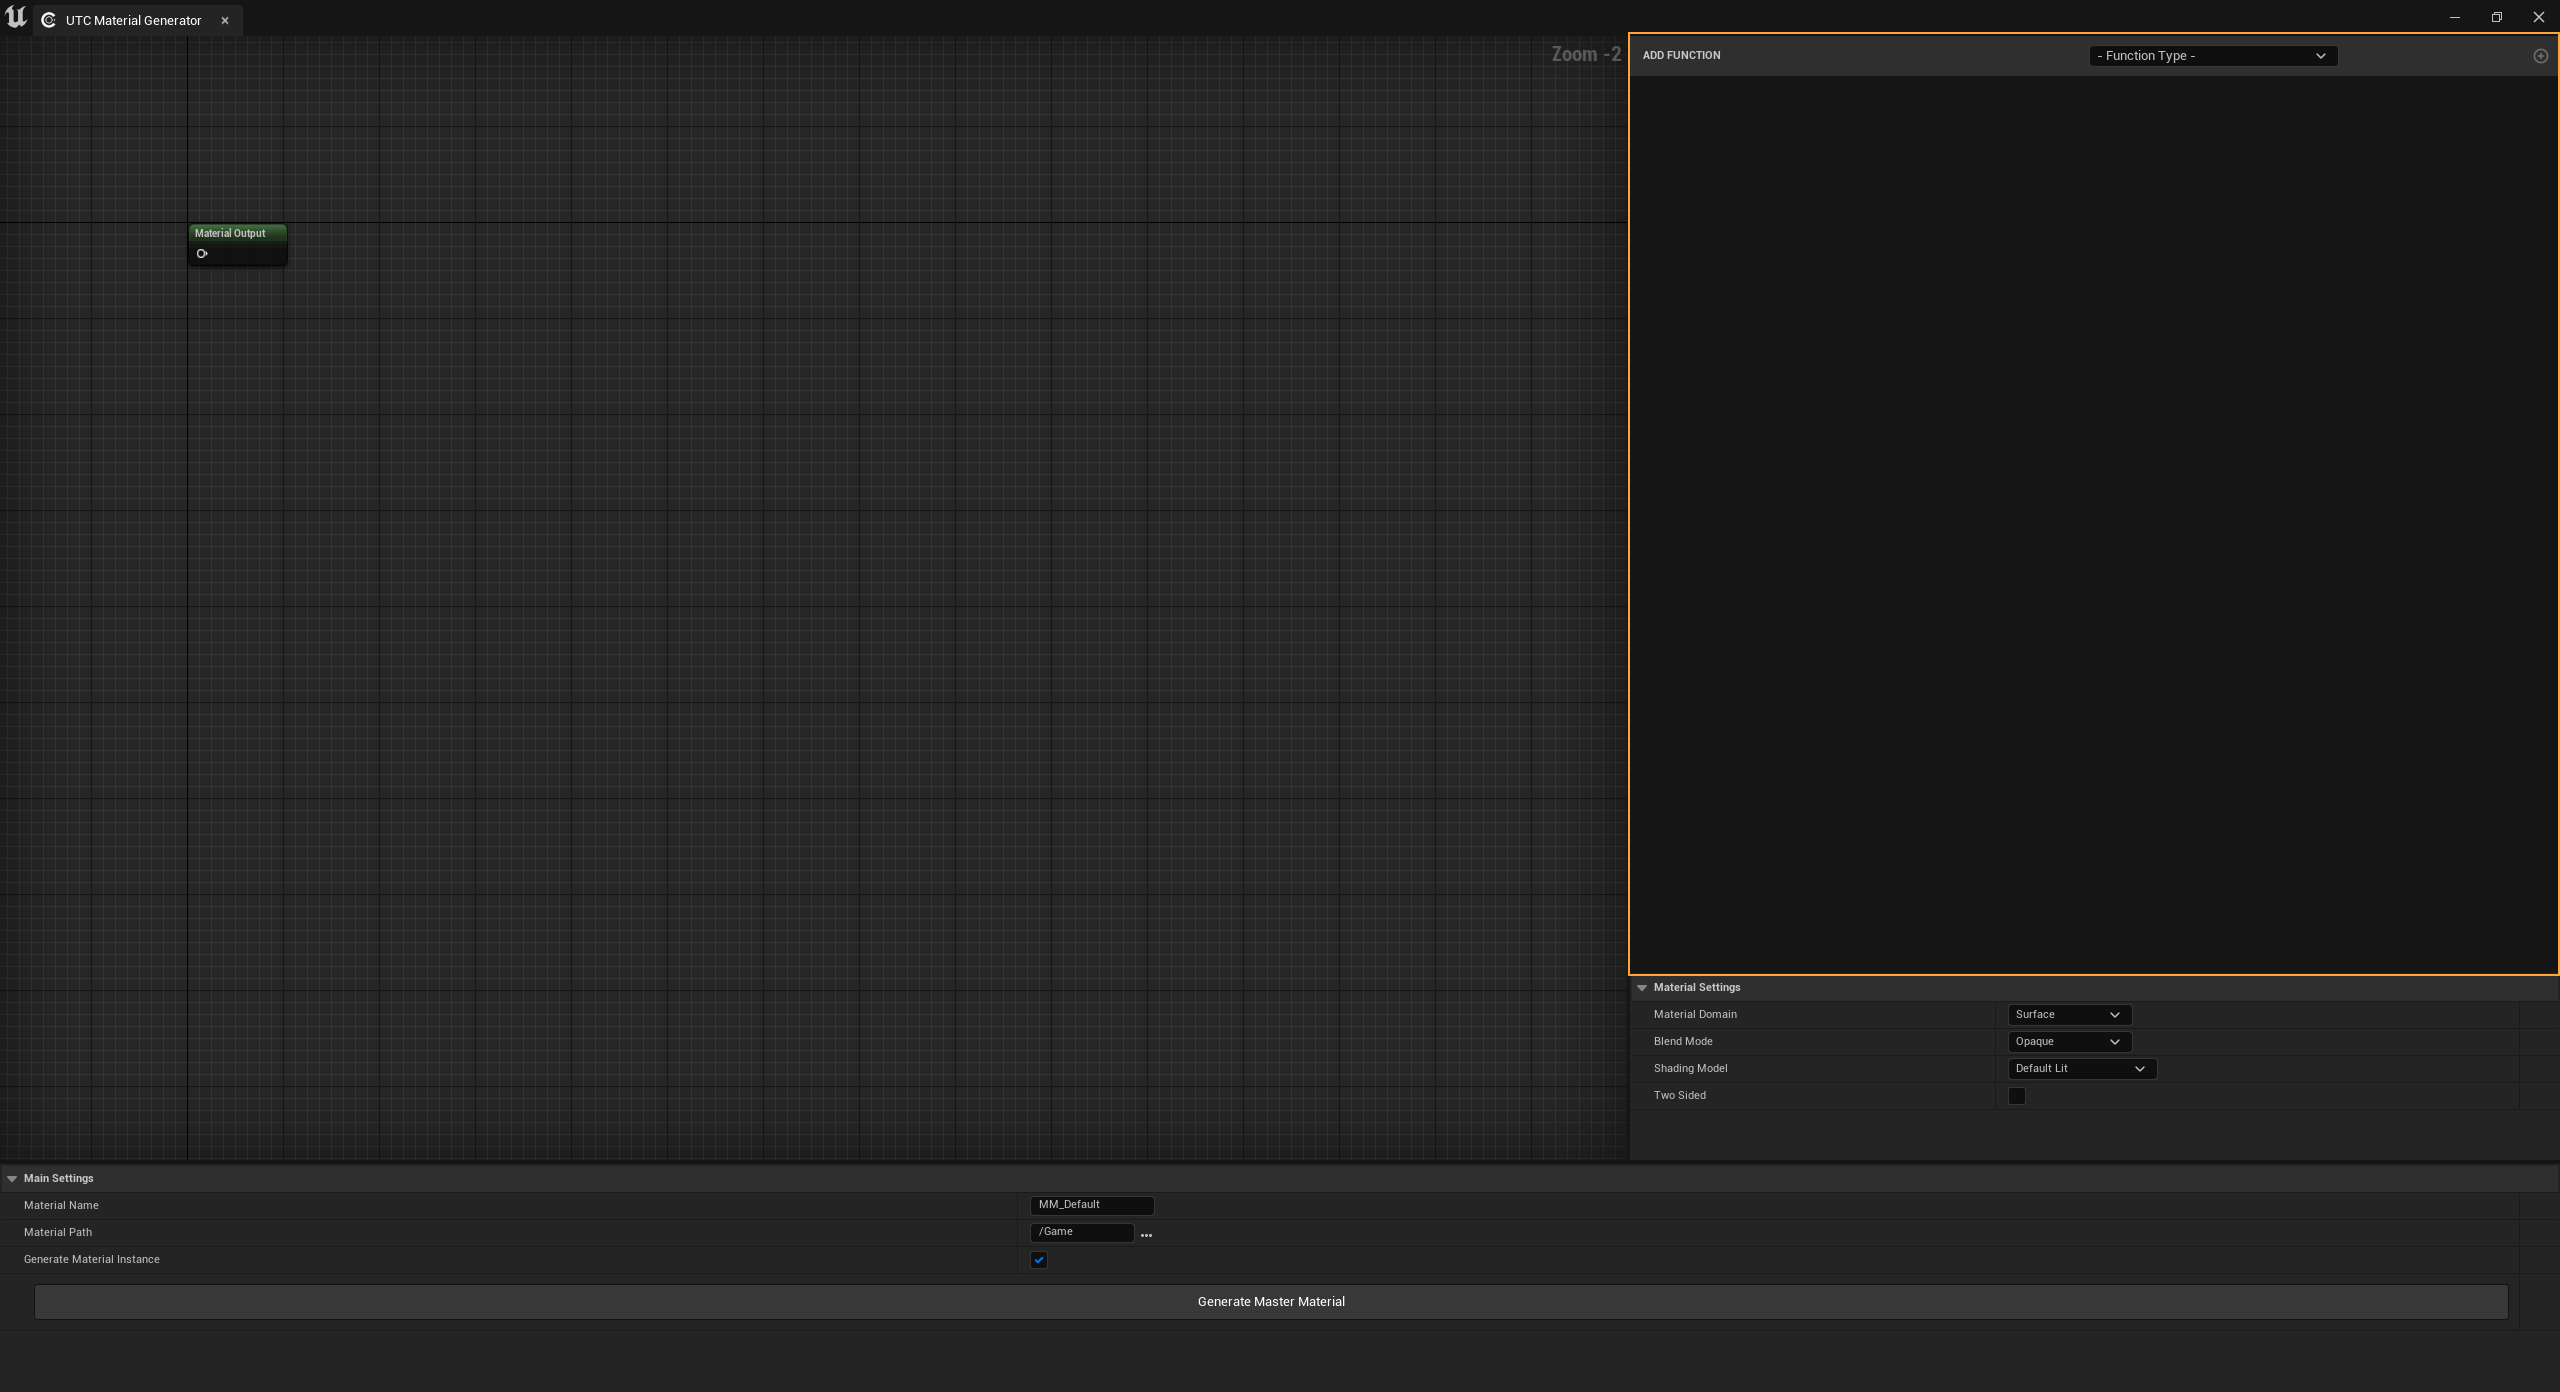
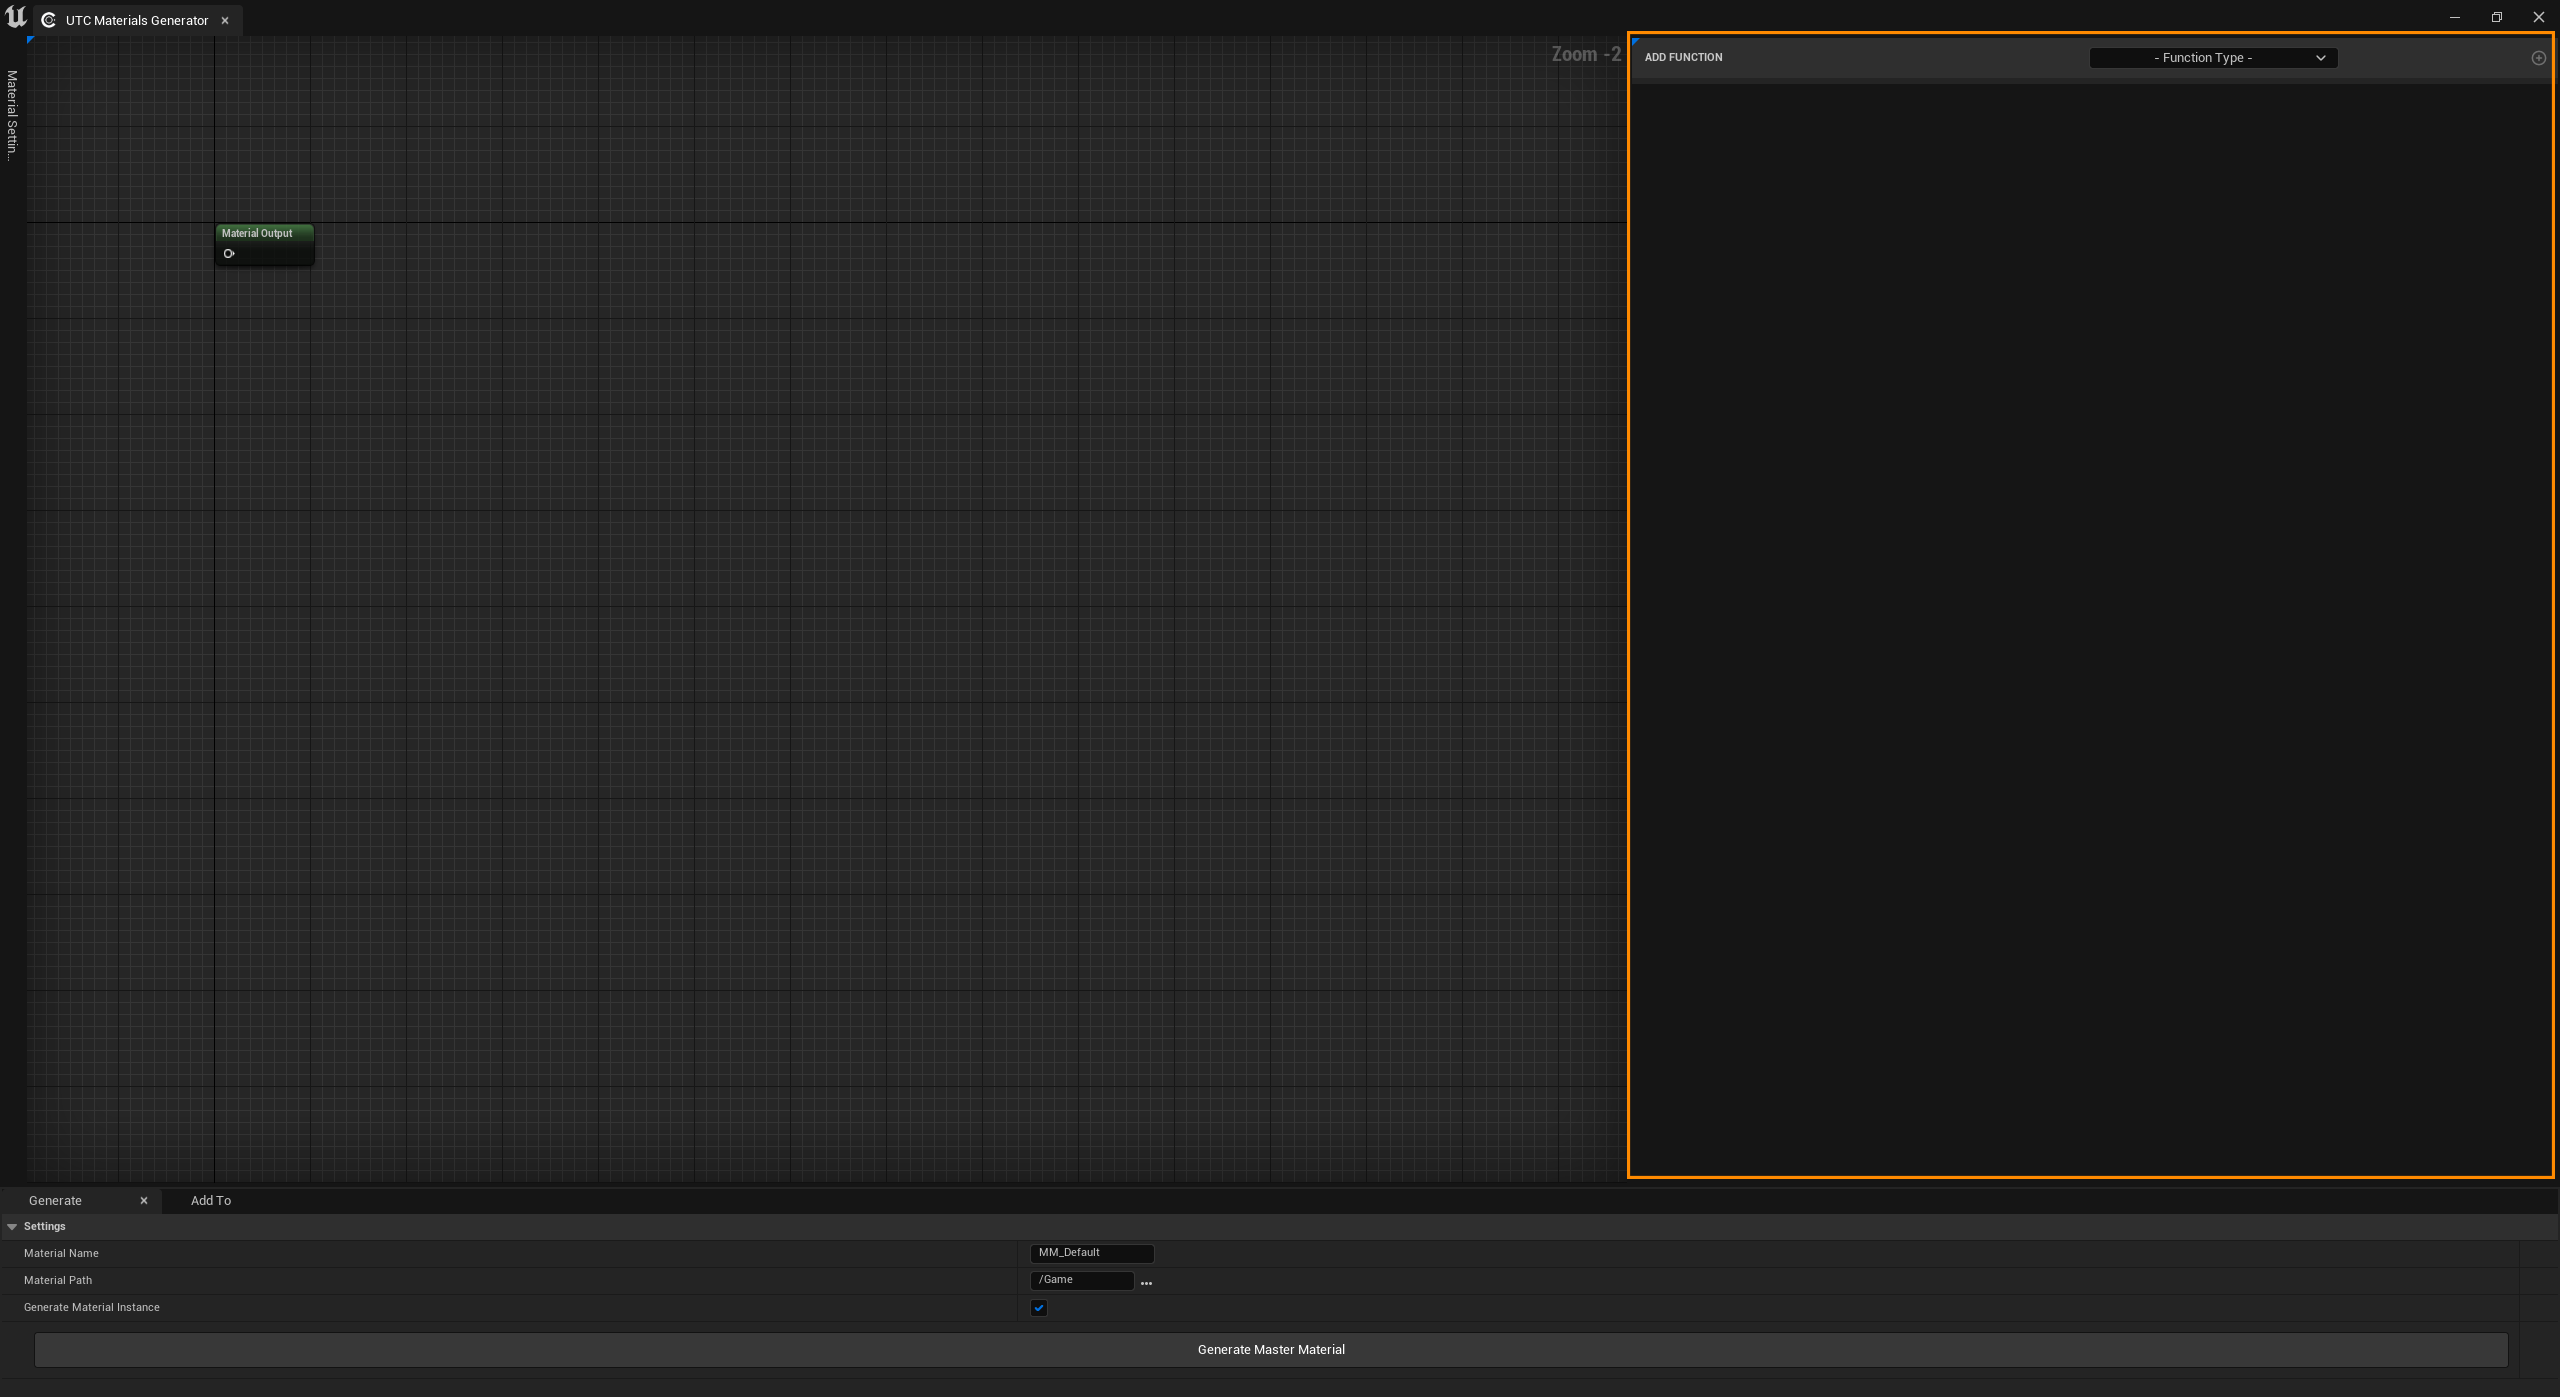
Doc

diff --git a/README.md b/README.md
@@ -2,22 +2,42 @@
 
 Easily create Master Materials for Unreal Engine !
 
-For Unreal Engine 5.1.
+For Unreal Engine 5.0.
 
-This is a first version of this plugin, content is limited but it will grow up over time. Feel free to send me feedbacks to improve it ! 
+Feel free to send me feedbacks to improve this plugin ! 
+
 
 ## Main Links
 
+If you like my work, you can support me here: https://www.paypal.com/paypalme/UTCompiler 
+
 Marketplace: https://www.unrealengine.com/marketplace/en-US/product/utc-shader-library
 
-Demo : https://www.youtube.com/watch?v=AxLDbQTHUMM
+Trailer: https://www.youtube.com/watch?v=v8OMGxTqgyI
+
+Demo/ Tuto : https://www.youtube.com/watch?v=5c1hgwKFKVM
 
 Follow the plugin’s development: 
 * Twitter: https://twitter.com/UTCompiler 
 * Trello: https://trello.com/b/w91ommLH/utc-shader-library
 
-If you like my work, you can support me here: https://www.paypal.com/paypalme/UTCompiler 
-Thanks ! 
+
+## UTC Shader Library 1.1 Release
+
+### Warning
+
+If you added new material functions or modified default ones, save them and Data Tables before upgrade to v1.1 due to the big difference between v1.0 and v1.1.
+
+### What’s news?
+
+* `Presets:` Create TreeView functions in one click by selecting presets and add your owns.
+* `Custom Packed Texture Functions:` if you have packed textures, it gives you the possibility to create custom functions to fit with them.
+* `List Organization:` Lists that contain material functions in combo boxes are grouped for more visibility.
+* `UI`
+* `Add to:` You can now add directly functions in an existing material.
+* `Material function library:` New MF like detailed functions, Fuzzy, PDO …
+
+
 ## What is it used for?
 
 The UTC Shader Library helping you to create Master Materials and saving time by avoiding repetitive operations with a library of common material functions, an automation of nodes and parameters creation, and a material instances elements’ organization like autocomplete material group names and sort priorities.
@@ -89,9 +109,28 @@ It gives the possibility to blend 2 material attributes or 2 masks or one materi
 
 ![](/Doc/Screens/UI/MaskHeader.png)
 
+**Presets:**
+
+By right clicking under TreeView, you can open the preset menu. It gives you the possibility to create TreeView elements faster. 
+
+![](/Doc/Screens/UI/Preset1.png)
+
+You can add your own presets by selecting the menu header’s.
+
+A message box will open; enter the preset name’s and his menu category (Select an existing one or write your own). This new preset is now available in the preset menu.
+
+![](/Doc/Screens/UI/Preset2.PNG)
+
+You can manage your preset in the Preset Object located in `Plugin-> UTC Shader Library Content-> Master Materials Generator-> P_MainPresets`.
+
+Warning: You can change every preset parameters’ at your own risk.
+
+![](/Doc/Screens/UI/Preset3.PNG)
+
+
 ### Graph
 
-The Graph is only for visualization at this moment. He reacts to the tree view.
+This graph is on read only statement, he reacts to the TreeView.
 
 ![](/Doc/Screens/UI/Graph1.png)
 
@@ -106,9 +145,19 @@ He displays 4 custom nodes
 
 Same as in a classic material. When the material is generated, he will have these selected parameters.
 
+![](/Doc/Screens/UI/MaterialSettings.png)
+
 ### Main Settings
 
+**Generate Material**
+
 Here, it’s possible to set the Material Name that the generated material will have, his content browser generation path and if you want to generate a Material Instance with it.
+![](/Doc/Screens/UI/GenerateMainSettings.PNG)
+
+**Add to Material**
+
+You can add the current TreeView functions directly in an existing material. Drag and drop the target material, push the button and voila !
+![](/Doc/Screens/UI/AddMainSettings.PNG)
 
 ## Add Custom Material Functions
 ### Data Tables
@@ -117,9 +166,10 @@ For each tree view combo box, it’s possible to add custom material functions. 
 
 They are located in: `Plugins->UTC Shader Library Content->Master Materials Generator`
 * The Row Name will be the display name in combo boxes of MMG. 
-* Drag and drop your material function into the slot Material Function
+* Drag and drop your material function into the slot Material Function.
 * The Material Attribute Type defines which material attribute input the material function will be connected to. 
-* The Material Group which will be displayed in the material instance arrangement
+* The Material Group which will be displayed in the material instance arrangement.
+* The MMG Menu Category will class the material function in the right category in TreeView combo boxes’.
 
 ![](/Doc/Screens/UI/DT.png)
 
@@ -190,21 +240,37 @@ Get Z normal direction, to add dust, snow … on the mesh.
 
 >Base Color
 
+>Detail Base Color
+
 >Metallic
 
->Specular 
+>Detail Metallic
+
+>Specular
+
+>Detail Specular
 
 >Roughness
+
+>Detail Roughness
 
 >Emissive
 
 >Opacity
 
+>Opacity Mask
+
 >Normal
+
+>Detail Normal
 
 >AO
 
 >Subsurface
+
+>Fuzzy
+
+>Distance Field PDO
 
 ## UVs
 >Local
